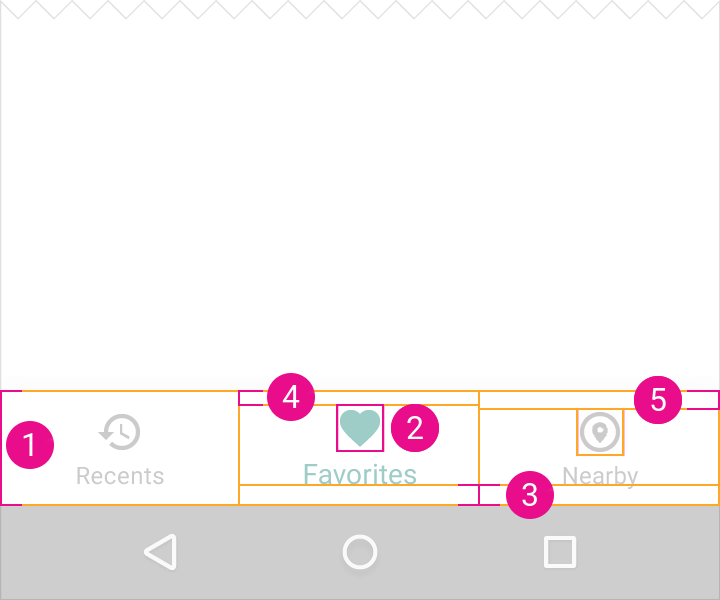
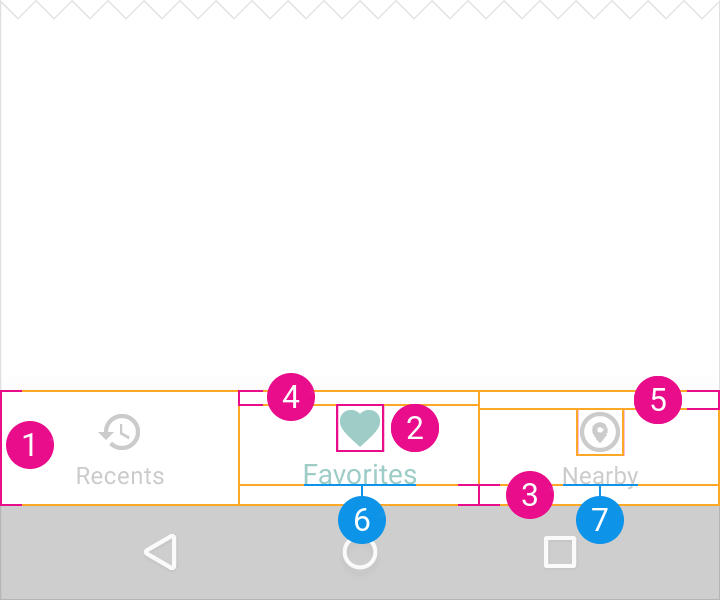
Fix bottom nav bar values and doc

Changed region(s): [[0.4278, 0.78, 0.5806, 0.93], [0.7944, 0.78, 0.8861, 0.93]]

diff --git a/docs/about/changelog.md b/docs/about/changelog.md
@@ -3,45 +3,36 @@
 
 - Change package name from `blue.aodev.materialvalues` to `material.values`.
 
-### Added values
-
 **Typography**
 
-- Text color for disabled and hint text.
+- Add text color values for disabled and hint text.
+- Rename `@color/material_typography_black_high_contrast` to `@color/material_typography_primary_text_color_dark`
+- Rename `@color/material_typography_black_low_contrast` to `@color/material_typography_secondary_text_color_dark`
+- Rename `@color/material_typography_white_high_contrast` to `@color/material_typography_primary_text_color_light`
+- Rename `@color/material_typography_white_low_contrast` to `@color/material_typography_secondary_text_color_light`
 
 **Icons**
 
-- Icon size dimensions.
+- Add size values.
 
 **Metrics & keylines**
 
-- Baseline grid multiples 21 to 25.
-- Half increments from 0.5 to 4.5.
+- Add baseline grid multiples 21 to 25.
+- Add half increments from 0.5 to 4.5.
+- Delete specific baseline grid multiples 28, 30 and 35.
 
 **Responsive UI**
 
-- Number of content hierarchy levels.
+- Add number of content hierarchy levels.
 
-### Renamed values
 
-**Typography**
+**Bottom navigation**
 
-| Old name | New name |
-| -------- | -------- |
-| `@color/material_typography_black_high_contrast` | `@color/material_typography_primary_text_color_dark`    |
-| `@color/material_typography_black_low_contrast`  | `@color/material_typography_secondary_text_color_dark`  |
-| `@color/material_typography_white_high_contrast` | `@color/material_typography_primary_text_color_light`   |
-| `@color/material_typography_white_low_contrast`  | `@color/material_typography_secondary_text_color_light` |
-
-### Deleted values
+- Rename `@dimen/material_bottom_nav_bar_shifting_action_active_icon_padding_vertical` to `@dimen/material_bottom_nav_bar_shifting_action_inactive_icon_padding_vertical`
 
 **Buttons: FAB**
 
-- `@dimen/material_button_fab_mini_icon_size`, use `@dimen/material_button_fab_icon_size` instead.
-
-**Metrics & keylines**
-
-- Specific baseline grid multiples 28, 30 and 35.
+- Delete `@dimen/material_button_fab_mini_icon_size`, use `@dimen/material_button_fab_icon_size` instead.
 
 
 ----

diff --git a/docs/component/bottom_navigation.md b/docs/component/bottom_navigation.md
@@ -1,5 +1,10 @@
 # Bottom navigation
 
+## Elevation
+
+Defined as `@dimen/material_elevation_bottom_nav_bar`.
+
+
 ## Fixed bottom navigation bar
 
 ### Action size
@@ -19,16 +24,9 @@
 3. `@dimen/material_bottom_nav_bar_action_label_padding_bottom`
 4. `@dimen/material_bottom_nav_bar_fixed_action_active_icon_padding_top`
 5. `@dimen/material_bottom_nav_bar_fixed_action_inactive_icon_padding_top`
+6. `@dimen/material_bottom_nav_bar_fixed_action_active_label_text_size`
+7. `@dimen/material_bottom_nav_bar_fixed_action_inactive_label_text_size`
 
-### Label
-
-| Label | Resource |
-| ----- | -------- |
-| Active label   | `@dimen/material_bottom_nav_bar_fixed_action_active_label_text_size`   |
-| Inactive label | `@dimen/material_bottom_nav_bar_fixed_action_inactive_label_text_size` |
-
-
----
 
 ## Shifting bottom navigation bar
 
@@ -52,20 +50,8 @@
 2. `@dimen/material_bottom_nav_bar_action_icon_size`
 3. `@dimen/material_bottom_nav_bar_shifting_action_active_icon_padding_top`
 4. `@dimen/material_bottom_nav_bar_action_label_padding_bottom`
-5. <del>`@dimen/material_bottom_nav_bar_shifting_action_active_icon_padding_vertical`</del> Naming issue
-
-### Label
-
-| Label | Resource |
-| ----- | -------- |
-| Active label | `@dimen/material_bottom_nav_bar_shifting_action_active_label_text_size` |
-
-
----
-
-## Elevation
-
-The elevation of both styles is `@dimen/material_elevation_bottom_nav_bar`.
+5. `@dimen/material_bottom_nav_bar_shifting_action_inactive_icon_padding_vertical`
+6. `@dimen/material_bottom_nav_bar_shifting_action_active_label_text_size`
 
 
 ---
